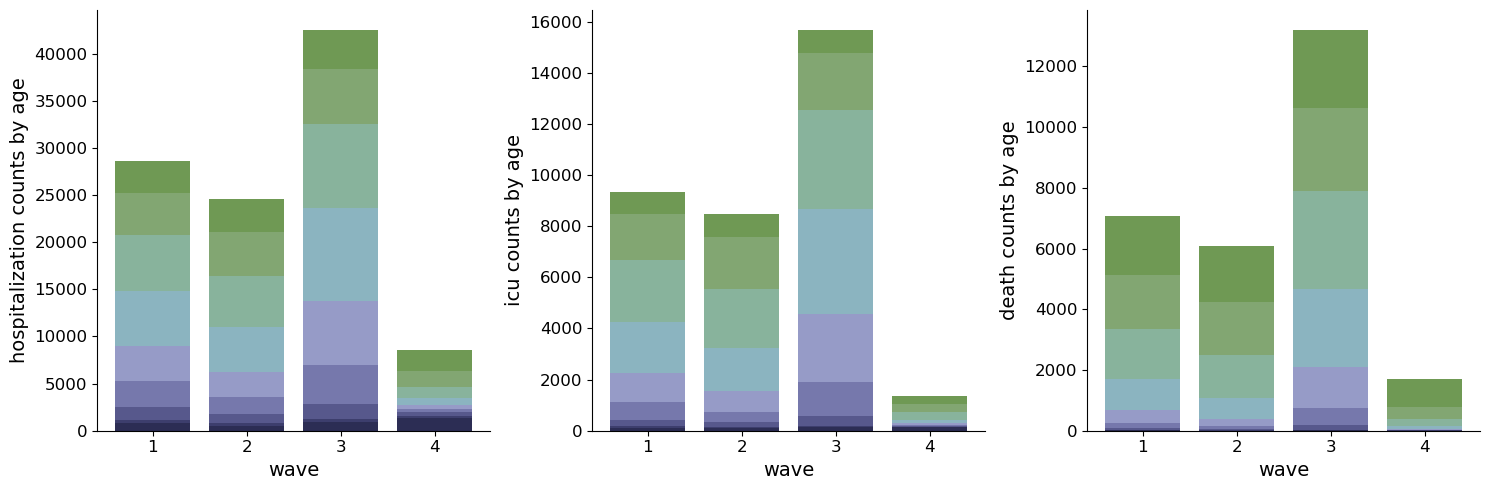
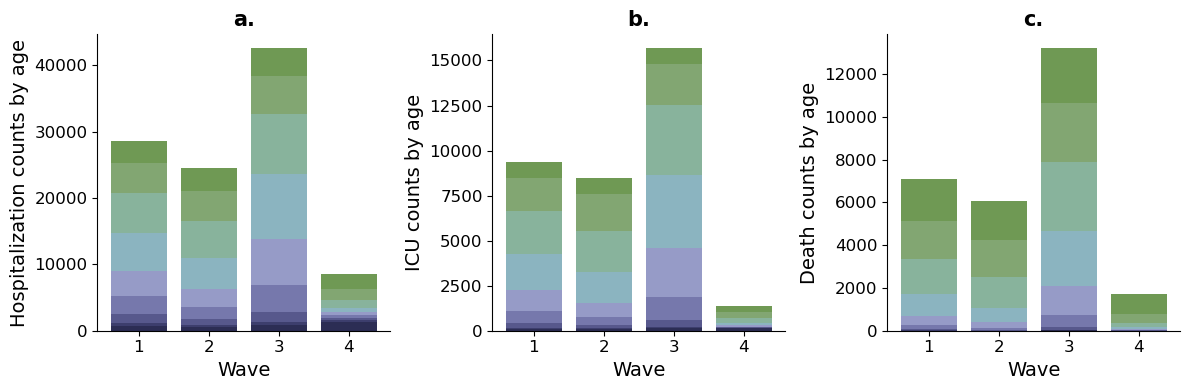
feat: updated figure 4 and individual plots.

diff --git a/plots/figure_4.py b/plots/figure_4.py
@@ -1,7 +1,7 @@
 # -*- coding: utf-8 -*-
 """
-Created on Th December 1 2022
-@author: dsquevedo
+Created on Mon 29 Nov 2022
+@author: davidsantiagoquevedo
 @author: ntorresd
 """  
 
@@ -11,57 +11,47 @@ warnings.filterwarnings('ignore')
 import sys
 import yaml
 import matplotlib.pyplot as plt
-from matplotlib.gridspec import GridSpec
 
-ymlfile = open("config.yml", "r")
-cfg = yaml.load(ymlfile)
-config = cfg["default"]
+config = yaml.load(open("config.yml", "r"))["default"]
 
 SCRIPTS_PATH = config['PATHS']['PLOT_PATH']
-FIG_PATH = config['PATHS']['FIG_PATH'].format(dir = 'plot_scripts')
+FIG_PATH = config['PATHS']['FIG_PATH'].format(dir = 'plots')
 sys.path.append(SCRIPTS_PATH)
 
 import results_severe_outcomes as results_severe_outcomes
 
-fig = plt.figure(figsize=(15, 15))
+fig, ax = plt.subplots(2,3, figsize=(12,8))
+plt.rcParams["savefig.pad_inches"] = 0.4
 
-gs = GridSpec(7, 3, figure=fig)
+axi = ax[0]
+results_severe_outcomes.plot_percentage(axi)
 
-ax11 = fig.add_subplot(gs[0:3, 0])
-ax12 = fig.add_subplot(gs[0:3, 1])
-ax13 = fig.add_subplot(gs[0:3, 2])
+axi[0].set_ylabel('Hospitalization percentage by age-group')
+axi[1].set_ylabel('ICU percentage by age-group')
+axi[2].set_ylabel('Deaths percentage by age-group')
+for axii in axi:
+    axii.tick_params(axis='x', labelrotation=90)
+    axii.set_xlabel('Age group')
+axi[0].set_title('a.')
+axi[1].set_title('b.')
+axi[2].set_title('c.')
+handles1, labels1 = axi[2].get_legend_handles_labels()
 
-ax_histograms = [ax11, ax12, ax13]
-results_severe_outcomes.plot_proportions_hist(ax_histograms)
+axi = ax[1]
+results_severe_outcomes.plot_proportions_hist(axi)
 
-ax21 = fig.add_subplot(gs[3:5, 0])
-ax22 = fig.add_subplot(gs[3:5, 1])
-ax23 = fig.add_subplot(gs[3:5, 2])
-ax31 = fig.add_subplot(gs[5:7, 0])
-ax32 = fig.add_subplot(gs[5:7, 1])
-axes_rates = [ax21, ax22, ax23, ax31, ax32]
-ax33 = fig.add_subplot(gs[5:7, 2])
+axi[0].set_ylabel('Hospital proportion by wave')
+axi[1].set_ylabel('ICU proportion by wave')
+axi[2].set_ylabel('Death proportion by wave')
+for axii in axi:
+    axii.set_xlabel('Wave')
+axi[0].set_title('d.')
+axi[1].set_title('e.')
+axi[2].set_title('f.')
+handles2, labels2 = axi[2].get_legend_handles_labels()
 
-results_severe_outcomes.plot_rates(ax=ax21, var='CFR', var_name='CFR')
-results_severe_outcomes.plot_rates(ax=ax22, var='HCR', var_name='HCR')
-results_severe_outcomes.plot_rates(ax=ax23, var='HCR_I', var_name='HCR - ICU')
-
-results_severe_outcomes.plot_rates(ax=ax31, var='HFR', var_name='HFR')
-results_severe_outcomes.plot_rates(ax=ax32, var='HFR_I', var_name='HFR - ICU')
-
-ax11.set_ylabel('hospitalization proportion')
-ax12.set_ylabel('icu proportion')
-ax13.set_ylabel('death proportion')
-for axi in ax_histograms:
-    axi.set_xlabel('wave')
-handles, labels = ax13.get_legend_handles_labels()
-ax13.legend(handles, labels, loc='upper right')
-
-handles, labels = ax32.get_legend_handles_labels()
-ax33.legend(handles, labels, loc='upper left')
-ax33.axis('off')
-for axi in axes_rates:
-    axi.tick_params(axis='x', rotation=45)
+handles = handles1 + handles2
+labels = labels1 + labels2
+fig.legend(handles, labels, bbox_to_anchor = (0.79, -0.02), ncol = 6)
 
 fig.savefig(FIG_PATH+'figure_4.png')
-# fig.show()

diff --git a/plots/individual_plots.py b/plots/individual_plots.py
@@ -185,32 +185,39 @@ fig.savefig(FIG_PATH + 'distributions.png')
 #################################### ####################################
 import results_severe_outcomes as results_severe_outcomes
 
-fig, ax = plt.subplots(1, 3, figsize=(15, 5))
+fig, ax = plt.subplots(1, 3, figsize=(12, 4))
 results_severe_outcomes.plot_percentage(ax)
-ax[0].set_ylabel('hospitalization percentage by age')
-ax[1].set_ylabel('icu percentage by age')
-ax[2].set_ylabel('death percentage by age')
+ax[0].set_ylabel('Hospitalization percentage by age')
+ax[1].set_ylabel('ICU percentage by age')
+ax[2].set_ylabel('Death percentage by age')
+ax[0].set_title('a.')
+ax[1].set_title('b.')
+ax[2].set_title('c.')
 for axi in ax:
     axi.tick_params(axis='x', labelrotation=90)
-    axi.set_xlabel('age group')
+    axi.set_xlabel('Age group')
 handles, labels = ax[2].get_legend_handles_labels()
 ax[2].legend(handles, labels, loc='upper left')
 fig.savefig(FIG_PATH+'hosp_icu_death_percentages.png')
 
-fig, ax = plt.subplots(1, 3, figsize=(15, 5))
+fig, ax = plt.subplots(1, 3, figsize=(12, 4))
 results_severe_outcomes.plot_counts(ax)
 handles, labels = ax[0].get_legend_handles_labels()
+ax[0].set_title('a.')
+ax[1].set_title('b.')
+ax[2].set_title('c.')
 fig.legend(handles, labels, bbox_to_anchor = (0.8, -0.03), ncol = len(labels)) 
 fig.savefig(FIG_PATH+'hosp_icu_death_counts.png')
 
-vary='counts'
-strat = 'wave'
-fig, ax = plt.subplots(1, 3, figsize=(15,5))
+fig, ax = plt.subplots(1, 3, figsize=(12, 4))
 for axi in ax:
-    axi.set_xlabel(strat)
-ax[0].set_ylabel('hospitalization counts by age')
-ax[1].set_ylabel('icu counts by age')
-ax[2].set_ylabel('death counts by age')
+    axi.set_xlabel('Wave')
+ax[0].set_ylabel('Hospitalization counts by age')
+ax[1].set_ylabel('ICU counts by age')
+ax[2].set_ylabel('Death counts by age')
+ax[0].set_title('a.')
+ax[1].set_title('b.')
+ax[2].set_title('c.')
 results_severe_outcomes.plot_counts_histograms(ax)
 fig.savefig(FIG_PATH+'hosp_icu_death_counts_hist.png') 
 
